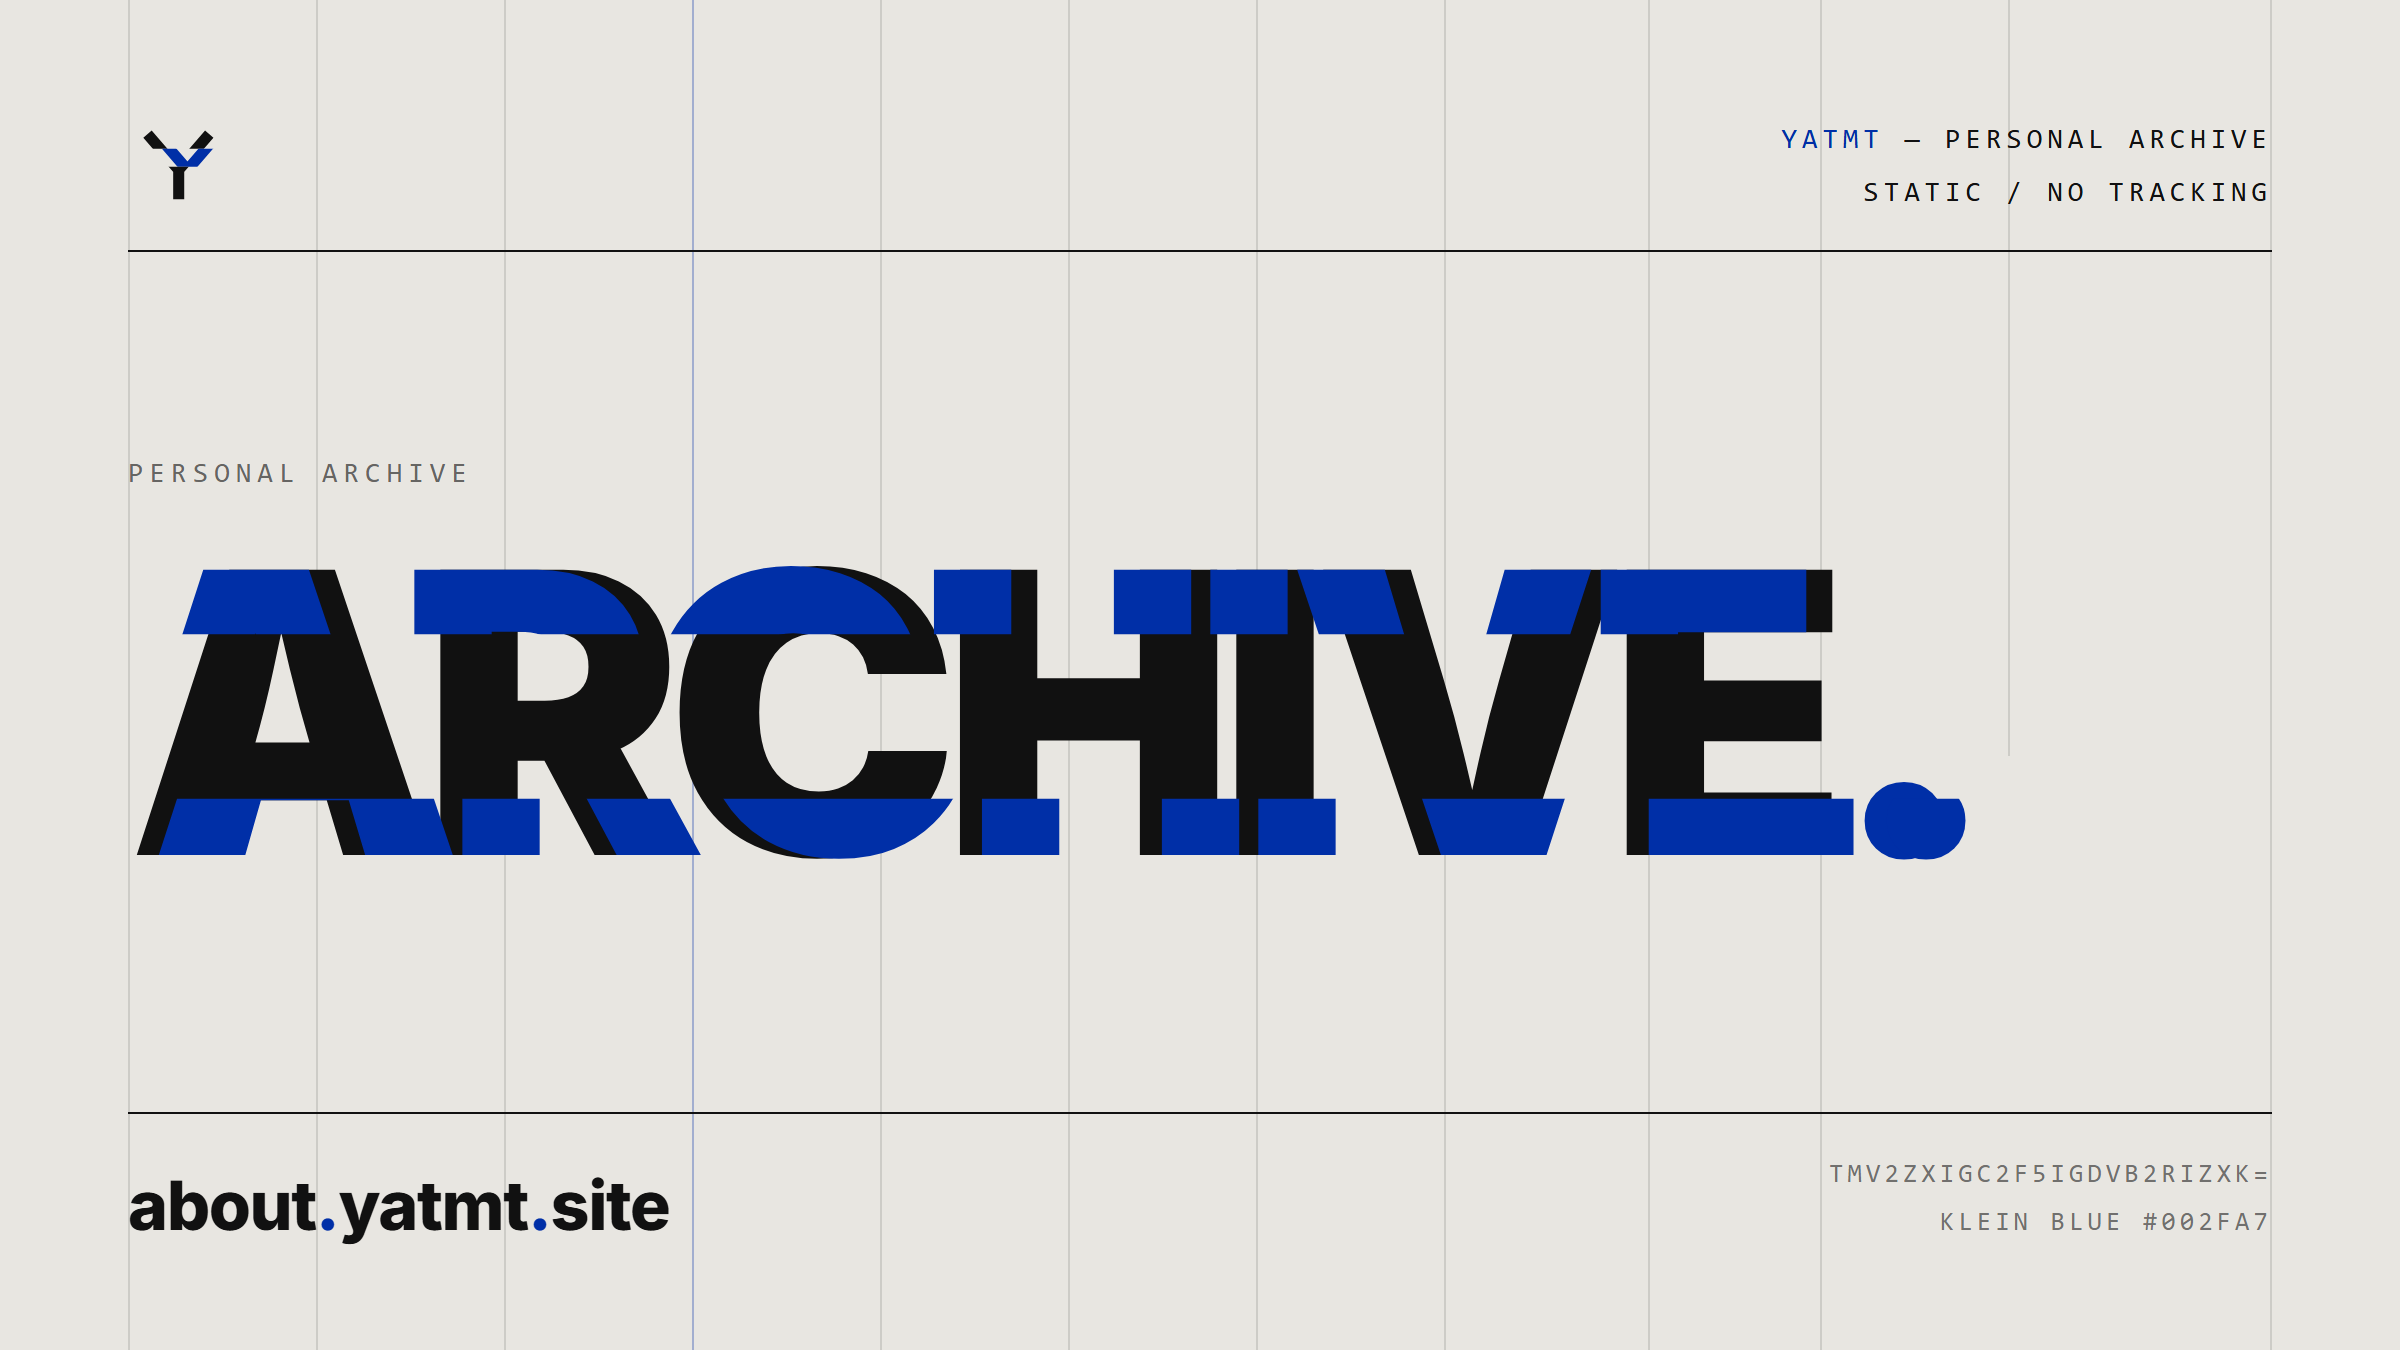
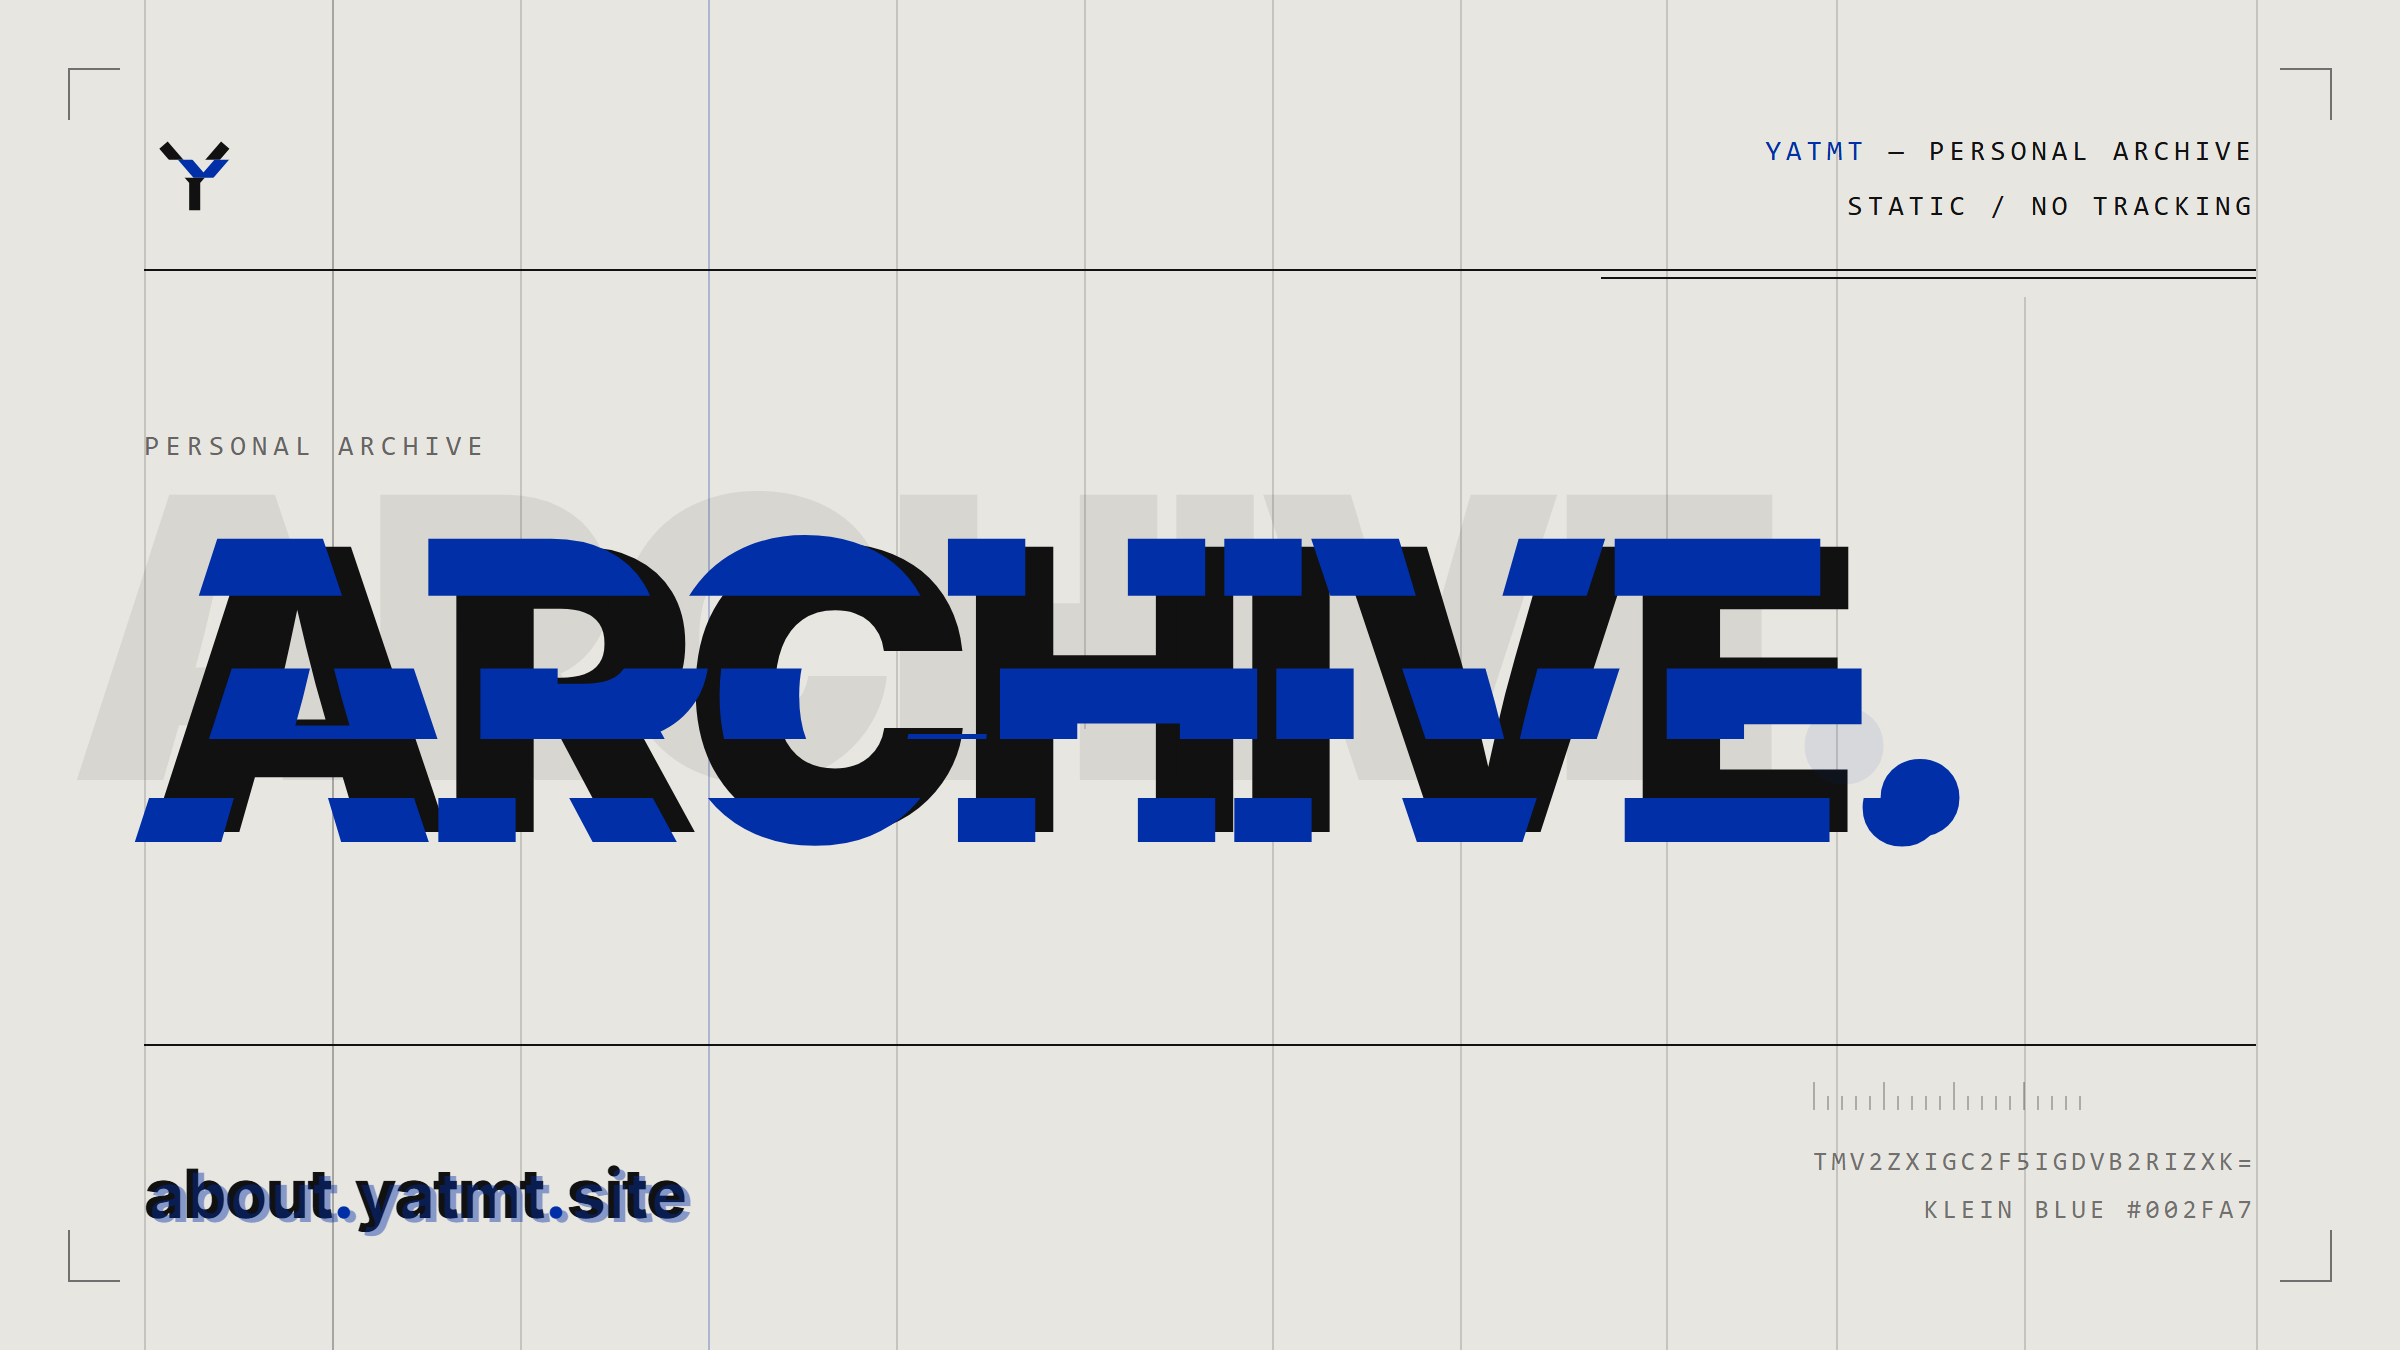
design: give the share card actual depth
The card was a clean poster, not a dissociative one, and the reason was
structural: everything sat on a single plane. The only thing disagreeing
with anything was the pair of slip bands, and two polite bands read as a
design flourish rather than as a misprint.

What changed:

- The grid is drawn to be seen. At 12% opacity it was paper grain, and a
  grid you cannot see cannot be seen to be wrong. One rule is Klein Blue,
  one is severed, one sits 9px off its column.
- A full second impression of ARCHIVE. sits behind the first, offset on
  both axes. This is the layer that was missing — it is what turns three
  slips into a plate that was printed twice.
- Three bands instead of two, each slipped a different amount on both
  axes. Even bands leave ink between them, so the word stays ink with blue
  slips through it rather than becoming blue type with a fringe.
- Instrument framing: corner registration brackets, a tick ruler, and
  rows of rules that are severed and re-laid a few pixels off.
- The domain is printed twice.

An oversized mark bleeding off the edge was tried as the depth layer and
removed: at 660px it stopped being a background plane and became a giant
glyph competing with the word.

diff --git a/brand/og-card.html b/brand/og-card.html
@@ -8,15 +8,12 @@
 <style>
   :root {
     --bg:#E8E6E1; --ink:#111111; --blue:#002FA7; --blue-ink:#002FA7;
-    --line:rgba(17,17,17,.28); --line-soft:rgba(17,17,17,.12);
+    --line:rgba(17,17,17,.30); --line-soft:rgba(17,17,17,.16);
     --mono:"SFMono-Regular","JetBrains Mono","IBM Plex Mono",Consolas,monospace;
     --sans:"Inter","Helvetica Neue","Noto Sans SC","PingFang SC",sans-serif;
   }
   * { margin:0; padding:0; box-sizing:border-box; }
 
-  /* 1200x630 — the one ratio every chat client crops consistently.
-     Most of them render it in a dark UI, so the paper plate is the version
-     that stands out; and it is the site's primary theme anyway. */
   /* Width is fixed at 1200 — that is the size every scraper works from, and
      the ARCHIVE lockup is sized to it. Only the height varies, so the ratio
      is a URL param rather than a second copy of this file. */
@@ -25,51 +22,93 @@
     background:var(--bg); color:var(--ink); font-family:var(--sans);
   }
 
+  /* ── plane 0: the grid, drawn to be seen. The first version sat at 12%
+     opacity, which read as paper grain rather than as a measured grid — a
+     grid you cannot see cannot be seen to be wrong. ───────────────────── */
   .grid i { position:absolute; top:0; bottom:0; width:1px; background:var(--line-soft); }
-  .grid i:nth-child(4) { background:var(--blue); opacity:.3; }
-  .grid i:nth-child(9) { margin-left:8px; }
-  .grid i:nth-child(11) { bottom:44%; }
+  .grid i:nth-child(2)  { background:var(--line); }
+  .grid i:nth-child(4)  { background:var(--blue); opacity:.26; }
+  .grid i:nth-child(6)  { bottom:46%; }          /* severed */
+  .grid i:nth-child(9)  { margin-left:9px; }     /* slipped off its column */
+  .grid i:nth-child(11) { top:22%; }
 
-  .pad { position:absolute; inset:0; padding:56px 64px 52px; display:flex; flex-direction:column; }
+  /* ── plane 2: registration brackets, as on a specimen plate ─────────── */
+  .reg { position:absolute; width:26px; height:26px; border:1px solid var(--ink); opacity:.55; }
+  .reg.tl { top:34px;  left:34px;  border-right:none; border-bottom:none; }
+  .reg.tr { top:34px;  right:34px; border-left:none;  border-bottom:none; }
+  .reg.bl { bottom:34px; left:34px;  border-right:none; border-top:none; }
+  .reg.br { bottom:34px; right:34px; border-left:none;  border-top:none; }
 
-  .head { display:flex; align-items:center; justify-content:space-between;
-          border-bottom:1px solid var(--ink); padding-bottom:16px; }
+  .pad { position:absolute; inset:0; padding:62px 72px 58px; display:flex; flex-direction:column; }
+
+  .head { display:flex; align-items:flex-start; justify-content:space-between; }
   .mark { width:52px; height:52px; display:block; }
   .head-r { font-family:var(--mono); font-size:14px; letter-spacing:.18em;
-            text-transform:uppercase; line-height:1.9; text-align:right; }
+            text-transform:uppercase; line-height:1.95; text-align:right; }
   .head-r b { color:var(--blue-ink); font-weight:400; }
+
+  /* a rule that is severed and re-laid a few pixels off — the registration
+     error stated in the simplest possible form */
+  .rule { position:relative; height:1px; background:var(--ink); margin-top:18px; }
+  .rule::after { content:""; position:absolute; right:0; top:4px;
+                 width:31%; height:1px; background:var(--ink); }
 
   .mid { flex:1; display:flex; flex-direction:column; justify-content:center; }
 
   .kicker { font-family:var(--mono); font-size:14px; letter-spacing:.22em;
-            text-transform:uppercase; opacity:.6; margin-bottom:14px; }
+            text-transform:uppercase; opacity:.6; margin-bottom:16px; }
 
-  /* ink word, two blue bands out of register — same device as the site h1 */
+  /* the word, four times over */
   .word { position:relative; font-weight:900; font-size:196px; line-height:1;
           letter-spacing:-.045em; white-space:nowrap; }
   .word .dot { color:var(--blue-ink); }
-  .strip { position:absolute; inset:0; display:block; white-space:nowrap;
-           color:var(--blue-ink); pointer-events:none;
-           font-weight:900; letter-spacing:-.045em; }
-  .s1 { clip-path:inset(0 0 70% 0); transform:translateX(-13px); }
-  .s2 { clip-path:inset(72% 0 0 0); transform:translateX(11px); }
+
+  /* (a) a full second impression of the word, off-register in both axes.
+     This is the layer that was missing entirely — without it the only thing
+     disagreeing with anything was the strips, and two polite bands read as a
+     design flourish rather than as a misprint. */
+  .echo { position:absolute; left:-38px; top:-26px; color:var(--ink); opacity:.07;
+          pointer-events:none; }
+
+  /* (b) three bands, each slipped a different amount on both axes and each
+     a different width. Even bands leave the ink showing between them, so the
+     word stays ink with blue slips through it — covering the whole glyph
+     turns it into blue type with a fringe, which is not a misprint, it is
+     just blue. */
+  .band { position:absolute; inset:0; display:block; white-space:nowrap;
+          color:var(--blue-ink); pointer-events:none; }
+  .b1 { clip-path:inset(10% 0 72% 0); transform:translate(-14px, -4px); }
+  .b2 { clip-path:inset(43% 0 39% 0); transform:translate(12px, 3px); }
+  .b3 { clip-path:inset(75% 0 6% 0);  transform:translate(-9px, 5px); }
 
   .foot { display:flex; align-items:flex-end; justify-content:space-between;
           border-top:1px solid var(--ink); padding-top:18px; }
-  .domain { font-size:34px; font-weight:800; letter-spacing:-.02em; }
+  .domain { position:relative; font-size:34px; font-weight:800; letter-spacing:-.02em; }
   .domain .d { color:var(--blue-ink); }
+  /* the domain, printed twice — the plainest way to say the plate slipped */
+  .domain .offset { position:absolute; left:3px; top:2px; color:var(--blue-ink);
+                    opacity:.42; pointer-events:none; }
+
+  /* ── instrument readout ─────────────────────────────────────────────── */
   .meta { font-family:var(--mono); font-size:13px; letter-spacing:.16em;
           text-transform:uppercase; opacity:.55; text-align:right; line-height:1.85; }
+  .ruler { display:flex; align-items:flex-end; gap:6px; height:14px; margin-bottom:14px; }
+  .ruler i { display:block; width:1px; background:var(--ink); opacity:.5; }
+  .ruler i:nth-child(5n+1) { height:14px; }
+  .ruler i:not(:nth-child(5n+1)) { height:7px; }
 </style>
 </head>
 <body>
 <div class="og">
   <div class="grid">
-    <i style="left:64px"></i><i style="left:158px"></i><i style="left:252px"></i>
-    <i style="left:346px"></i><i style="left:440px"></i><i style="left:534px"></i>
-    <i style="left:628px"></i><i style="left:722px"></i><i style="left:816px"></i>
-    <i style="left:910px"></i><i style="left:1004px"></i><i style="left:1135px"></i>
+    <i style="left:72px"></i><i style="left:166px"></i><i style="left:260px"></i>
+    <i style="left:354px"></i><i style="left:448px"></i><i style="left:542px"></i>
+    <i style="left:636px"></i><i style="left:730px"></i><i style="left:824px"></i>
+    <i style="left:918px"></i><i style="left:1012px"></i><i style="left:1128px"></i>
   </div>
+
+  <div class="reg tl"></div><div class="reg tr"></div>
+  <div class="reg bl"></div><div class="reg br"></div>
 
   <div class="pad">
     <div class="head">
@@ -90,19 +129,30 @@
         <div>Static / No tracking</div>
       </div>
     </div>
+    <div class="rule"></div>
 
     <div class="mid">
       <div class="kicker">Personal archive</div>
-      <div class="word">ARCHIVE<span class="dot">.</span>
-        <span class="strip s1" aria-hidden="true">ARCHIVE<span class="dot">.</span></span>
-        <span class="strip s2" aria-hidden="true">ARCHIVE<span class="dot">.</span></span>
+      <div class="word">
+        <span class="echo" aria-hidden="true">ARCHIVE<span class="dot">.</span></span>
+        ARCHIVE<span class="dot">.</span>
+        <span class="band b1" aria-hidden="true">ARCHIVE<span class="dot">.</span></span>
+        <span class="band b2" aria-hidden="true">ARCHIVE<span class="dot">.</span></span>
+        <span class="band b3" aria-hidden="true">ARCHIVE<span class="dot">.</span></span>
       </div>
     </div>
 
     <div class="foot">
-      <div class="domain">about<span class="d">.</span>yatmt<span class="d">.</span>site</div>
+      <div class="domain">
+        <span class="offset" aria-hidden="true">about.yatmt.site</span>
+        about<span class="d">.</span>yatmt<span class="d">.</span>site
+      </div>
       <div class="meta">
-        <div>TmV2ZXIgc2F5IGdvb2RiZXk=</div>
+        <div class="ruler">
+          <i></i><i></i><i></i><i></i><i></i><i></i><i></i><i></i><i></i><i></i>
+          <i></i><i></i><i></i><i></i><i></i><i></i><i></i><i></i><i></i><i></i>
+        </div>
+        <div>TMV2ZXIGC2F5IGDVb2RIZXk=</div>
         <div>Klein Blue #002FA7</div>
       </div>
     </div>
